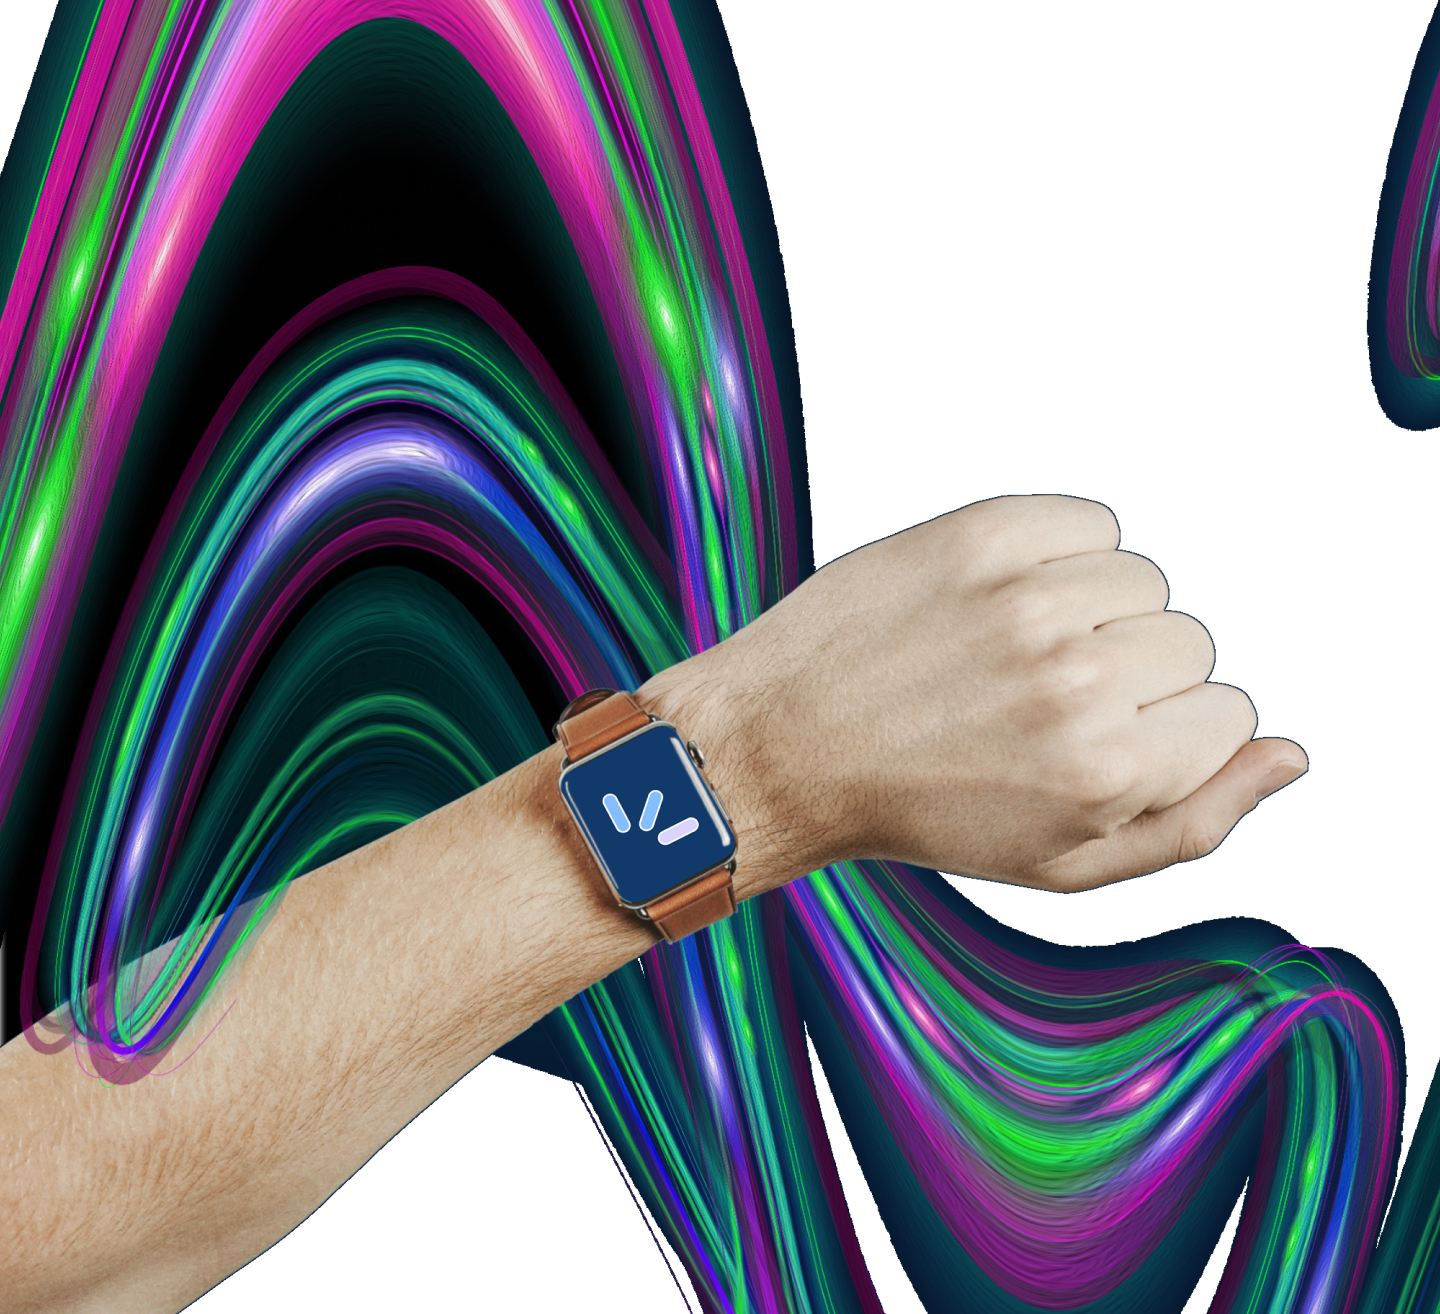
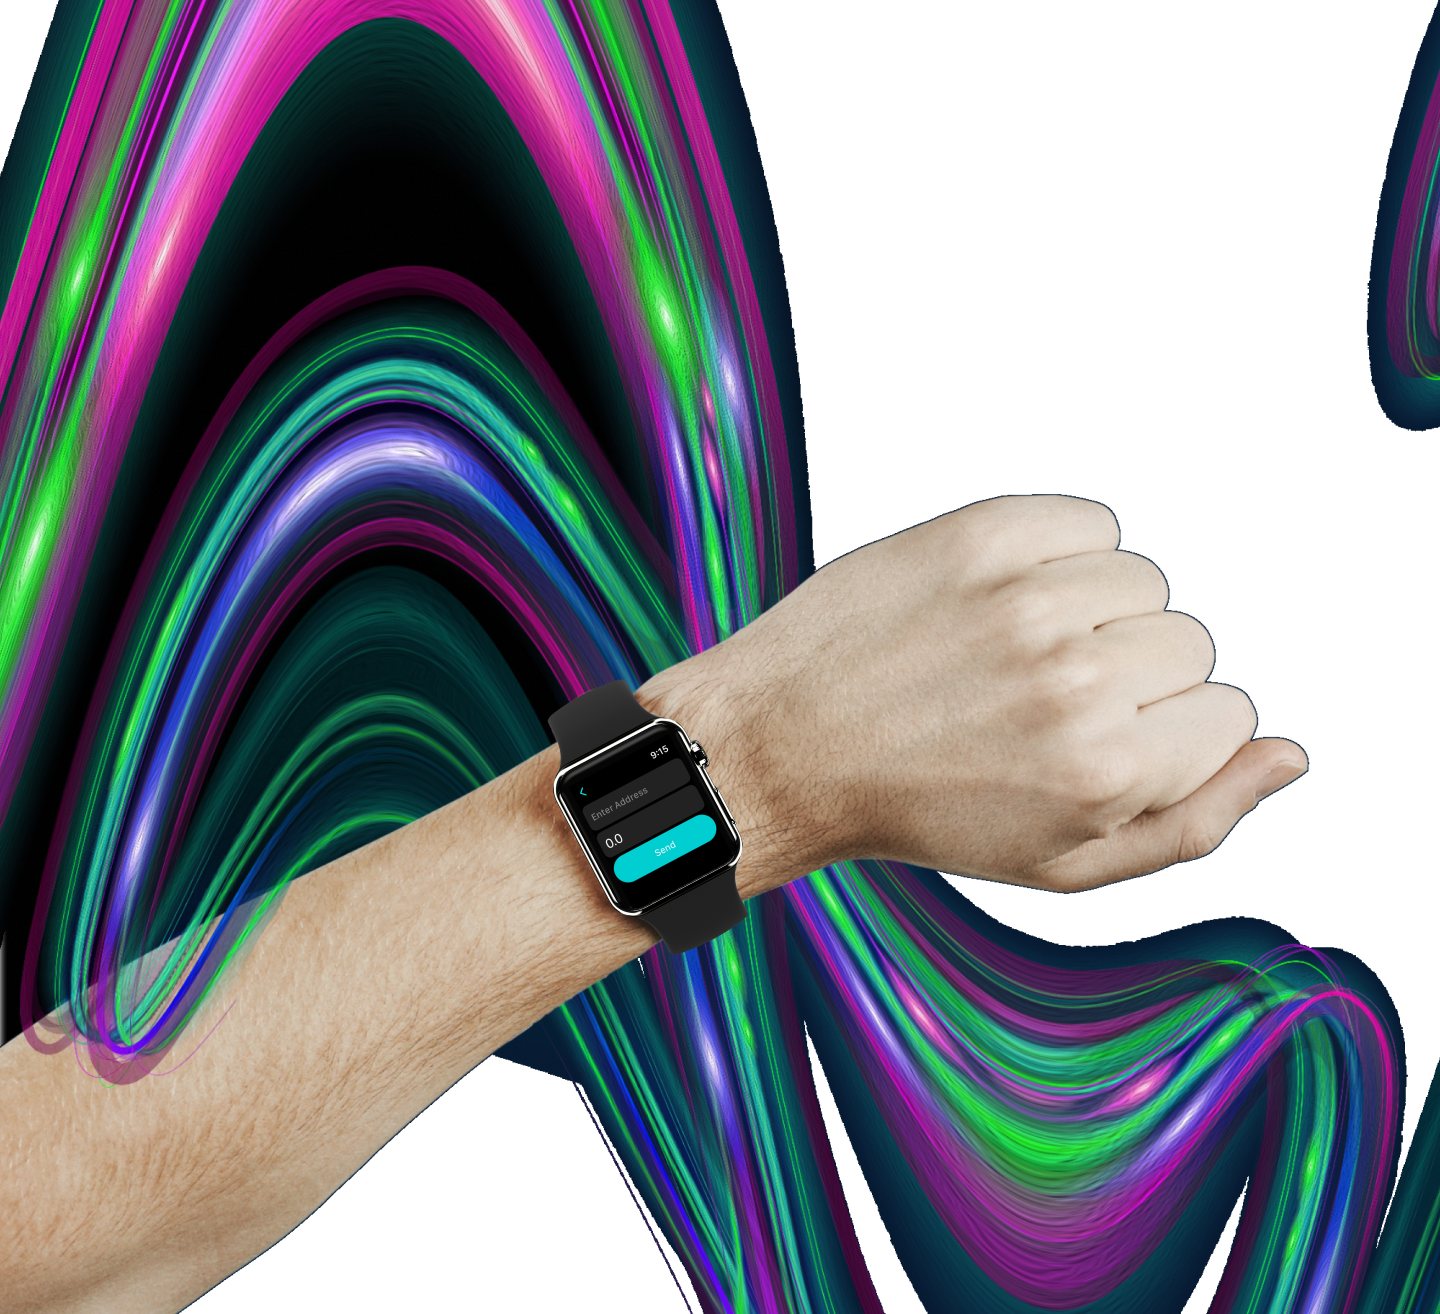
[website] feat: finalized

Changed region(s): [[0.375, 0.4992, 0.5312, 0.7489]]

diff --git a/website/app/page.tsx b/website/app/page.tsx
@@ -26,7 +26,6 @@ export default function Home() {
 
   useEffect(() => {
     window.addEventListener("scroll", handleScroll);
-    console.log("working");
     return () => {
       window.removeEventListener("scroll", handleScroll);
     };
@@ -34,19 +33,19 @@ export default function Home() {
 
   const contents = [
     {
-      title: "Lorem Impsum",
+      title: "Account Abstraction",
       description:
-        "Lorem Ipsum is simply dummy text of the printing and typesetting industry.",
+        "Standardizes Ethereum account functionalities for a simplified user experience.",
     },
     {
-      title: "Lorem Impsum",
+      title: "Secure Enclave",
       description:
-        "Lorem Ipsum is simply dummy text of the printing and typesetting industry.",
+        "Advanced hardware-based security to protect sensitive data and processes.",
     },
     {
-      title: `${width}`,
+      title: `Direct Payment`,
       description:
-        "Lorem Ipsum is simply dummy text of the printing and typesetting industry.",
+        "Streamlined, secure transactions ensuring immediate transfer of funds.",
     },
   ];
   return (

diff --git a/website/app/components/ContentBox.tsx b/website/app/components/ContentBox.tsx
@@ -8,7 +8,7 @@ type ContentBoxProps = {
       
         <div className="text-white h-72 w-96 items-center justify-center flex flex-col gap-7 bg-[#011021] rounded-lg p-4">
             <div className="text-3xl">{title}</div>
-            <div className="text-2xl text-center">{description}</div>
+            <div className="text-xl text-center">{description}</div>
         </div>
       
     );

diff --git a/website/app/components/Nouns.tsx b/website/app/components/Nouns.tsx
@@ -10,8 +10,7 @@ const Nouns = () => {
         />
       </div>
       <div className="text-2xl text-white max-w-2xl text-center">
-        Lorem Ipsum is simply dummy text of the printing and typesetting
-        industry.
+      Smartwatch wallets enable easy, secure, on-the-go financial management and contactless payments.
       </div>
     </div>
   );
